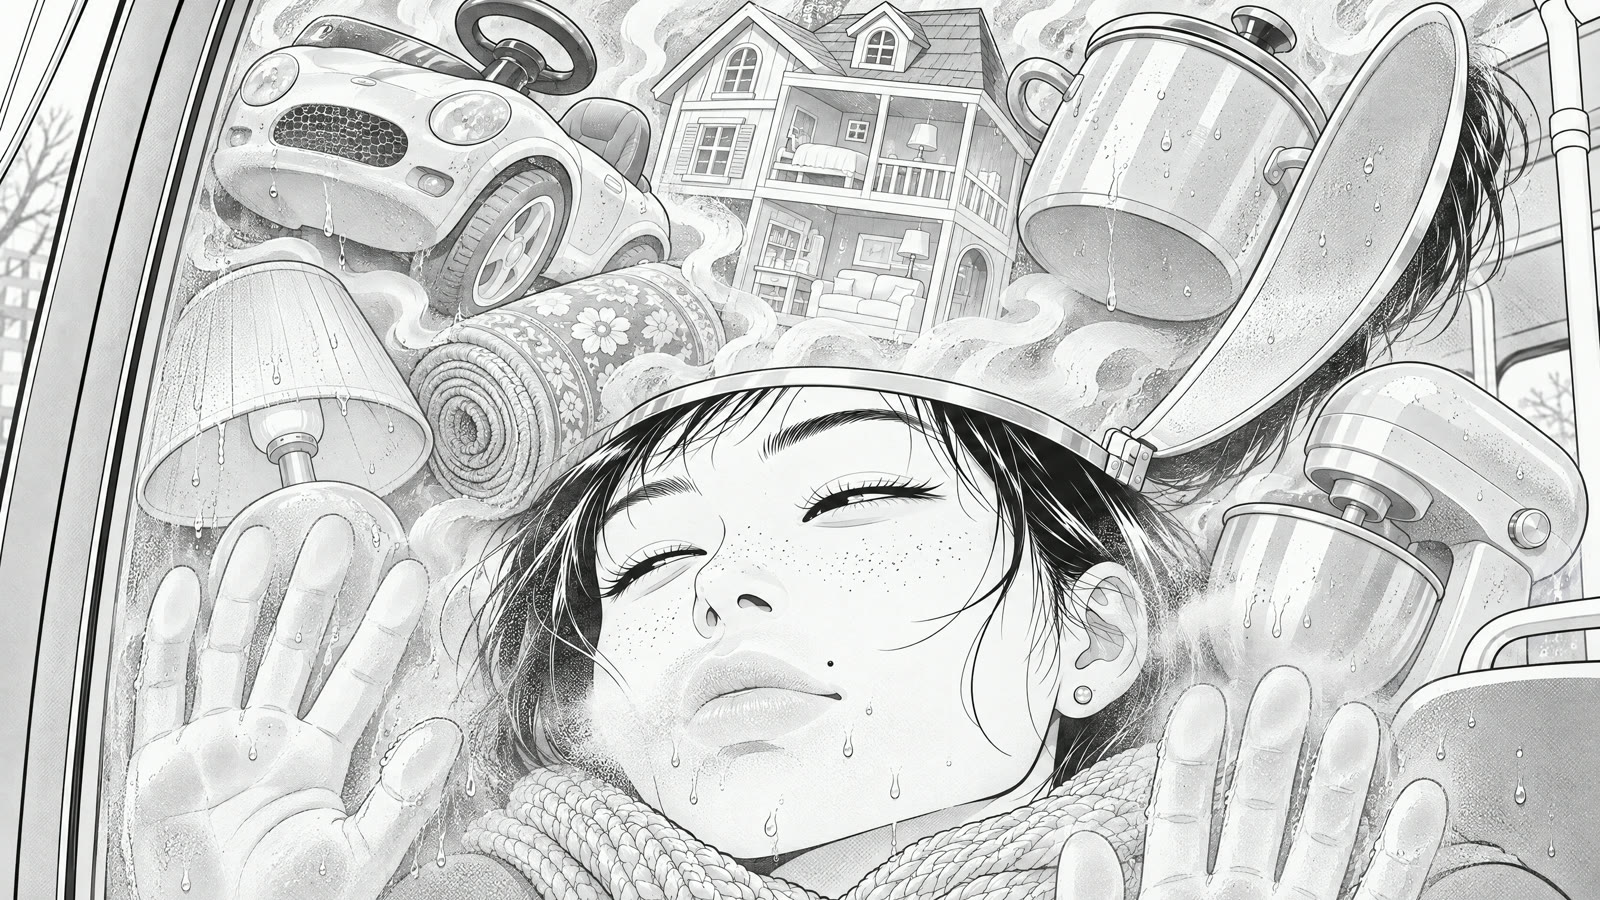
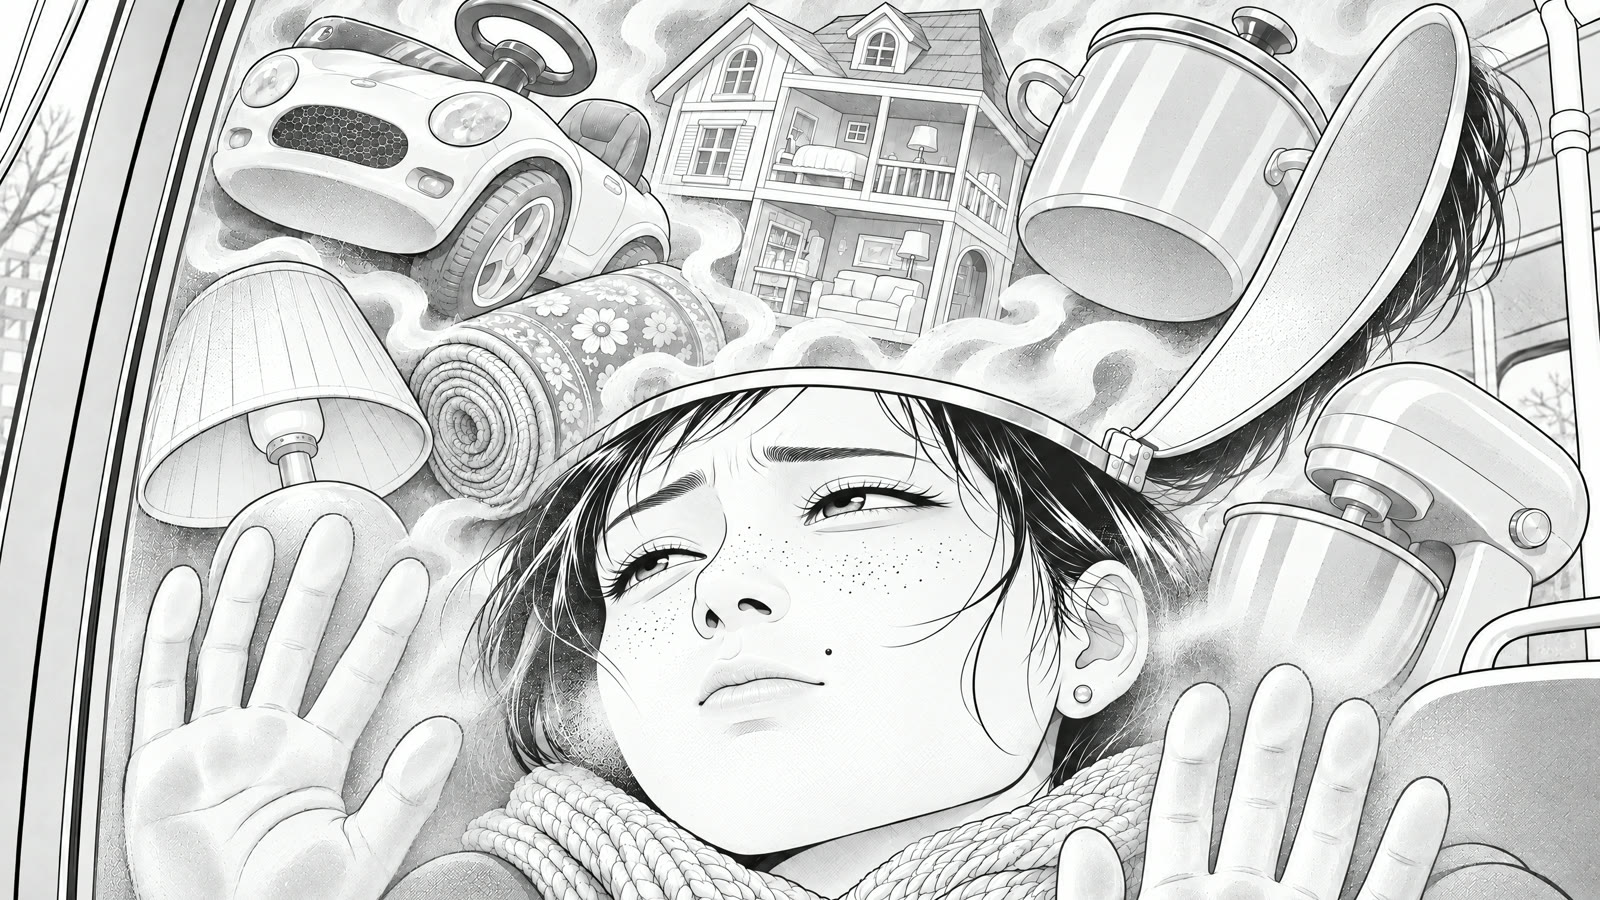
deck/avito: кадры 02, 05, 09 и описания с доски

diff --git a/deck/avito/index.html b/deck/avito/index.html
@@ -118,9 +118,9 @@ footer{margin-top:auto;border-top:1px solid var(--line);padding-top:18px;display
   </dl>
   <div class="copy"><p>Мысли героя о подарках вылетают из головы настоящими вещами. Поворот диммера Хватамбы открывает двери на улицу, где каждая мысль стоит в авитжете со скидкой.</p></div>
 </section>
-<section class="grid" id="refs"><div class="label">Стиль</div><div class="frames free"><figure><a href="./media/ref1.jpg?v=1" target="_blank" rel="noopener"><img src="./media/ref1.jpg?v=1" alt="Голова открывается крышкой, подарки вылетают с паром" loading="lazy"></a><figcaption><b></b><span>Голова открывается крышкой, подарки вылетают с паром</span></figcaption></figure></div></section>
-<section class="grid" id="sb"><div class="label">Раскадровка</div><div class="frames"><figure><a href="./media/sb01.jpg?v=1" target="_blank" rel="noopener"><img src="./media/sb01.jpg?v=1" alt="Герой в автобусе мечтательно смотрит вверх. Голова открывается крышкой, с паром вылетают подарки." loading="lazy"></a><figcaption><b>01</b><span>Герой в автобусе мечтательно смотрит вверх. Голова открывается крышкой, с паром вылетают подарки.</span></figcaption></figure><figure><a href="./media/sb02.jpg?v=1" target="_blank" rel="noopener"><img src="./media/sb02.jpg?v=1" alt="Девушка прижалась к запотевшему стеклу. Над её открытой головой свои желания." loading="lazy"></a><figcaption><b>02</b><span>Девушка прижалась к запотевшему стеклу. Над её открытой головой свои желания.</span></figcaption></figure><figure><a href="./media/sb03.jpg?v=1" target="_blank" rel="noopener"><img src="./media/sb03.jpg?v=1" alt="Салон в зеркале заднего вида: у всех пассажиров открыты головы, над каждым свои товары." loading="lazy"></a><figcaption><b>03</b><span>Салон в зеркале заднего вида: у всех пассажиров открыты головы, над каждым свои товары.</span></figcaption></figure><figure><a href="./media/sb04.jpg?v=1" target="_blank" rel="noopener"><img src="./media/sb04.jpg?v=1" alt="Макро глаза героя: в зрачке светится диммер Хватамбы на двери." loading="lazy"></a><figcaption><b>04</b><span>Макро глаза героя: в зрачке светится диммер Хватамбы на двери.</span></figcaption></figure><figure><a href="./media/sb05.jpg?v=1" target="_blank" rel="noopener"><img src="./media/sb05.jpg?v=1" alt="Герой крутит диммер, желания закручиваются вихрем. Автобус тормозит." loading="lazy"></a><figcaption><b>05</b><span>Герой крутит диммер, желания закручиваются вихрем. Автобус тормозит.</span></figcaption></figure><figure><a href="./media/sb06.jpg?v=1" target="_blank" rel="noopener"><img src="./media/sb06.jpg?v=1" alt="Двери открываются: на солнечной улице ряды авитжетов и селлеры." loading="lazy"></a><figcaption><b>06</b><span>Двери открываются: на солнечной улице ряды авитжетов и селлеры.</span></figcaption></figure><figure><a href="./media/sb07.jpg?v=1" target="_blank" rel="noopener"><img src="./media/sb07.jpg?v=1" alt="Нижняя точка на авитжет с товарами из желаний героя." loading="lazy"></a><figcaption><b>07</b><span>Нижняя точка на авитжет с товарами из желаний героя.</span></figcaption></figure><figure><a href="./media/sb08.jpg?v=1" target="_blank" rel="noopener"><img src="./media/sb08.jpg?v=1" alt="Селлер крутит диммер на авитжете, вылетают значки скидок." loading="lazy"></a><figcaption><b>08</b><span>Селлер крутит диммер на авитжете, вылетают значки скидок.</span></figcaption></figure><figure><a href="./media/sb09.jpg?v=1" target="_blank" rel="noopener"><img src="./media/sb09.jpg?v=1" alt="Сверху: город вращается вокруг диммера в руке селлера." loading="lazy"></a><figcaption><b>09</b><span>Сверху: город вращается вокруг диммера в руке селлера.</span></figcaption></figure><figure><a href="./media/sb10.jpg?v=1" target="_blank" rel="noopener"><img src="./media/sb10.jpg?v=1" alt="Изнутри авитжета: герой забирает ту самую кофемашину." loading="lazy"></a><figcaption><b>10</b><span>Изнутри авитжета: герой забирает ту самую кофемашину.</span></figcaption></figure><figure><a href="./media/sb11.jpg?v=1" target="_blank" rel="noopener"><img src="./media/sb11.jpg?v=1" alt="Пэкшот: авитжет с кофемашиной и диммером Хватамбы, плашка Авито." loading="lazy"></a><figcaption><b>11</b><span>Пэкшот: авитжет с кофемашиной и диммером Хватамбы, плашка Авито.</span></figcaption></figure></div></section>
-<section class="grid" id="alts"><div class="label">Альтернативы по стилю</div><div class="frames"><figure><a href="./media/alt1.jpg?v=1" target="_blank" rel="noopener"><img src="./media/alt1.jpg?v=1" alt="Предметы облепили голову" loading="lazy"></a><figcaption><b></b><span>Предметы облепили голову</span></figcaption></figure><figure><a href="./media/alt2.jpg?v=1" target="_blank" rel="noopener"><img src="./media/alt2.jpg?v=1" alt="Тот же приём, движение камеры" loading="lazy"></a><figcaption><b></b><span>Тот же приём, движение камеры</span></figcaption></figure></div></section>
+<section class="grid" id="refs"><div class="label">Стиль</div><div class="frames free"><figure><a href="./media/ref1.jpg?v=2" target="_blank" rel="noopener"><img src="./media/ref1.jpg?v=2" alt="Голова открывается крышкой, подарки вылетают с паром" loading="lazy"></a><figcaption><b></b><span>Голова открывается крышкой, подарки вылетают с паром</span></figcaption></figure></div></section>
+<section class="grid" id="sb"><div class="label">Раскадровка</div><div class="frames"><figure><a href="./media/sb01.jpg?v=2" target="_blank" rel="noopener"><img src="./media/sb01.jpg?v=2" alt="Герой в автобусе мечтательно смотрит вверх. Голова открывается крышкой, с паром вылетают подарки." loading="lazy"></a><figcaption><b>01</b><span>Герой в автобусе мечтательно смотрит вверх. Голова открывается крышкой, с паром вылетают подарки.</span></figcaption></figure><figure><a href="./media/sb02.jpg?v=2" target="_blank" rel="noopener"><img src="./media/sb02.jpg?v=2" alt="Девушка прижалась к запотевшему стеклу. Её желания над открытой головой тоже упираются в стекло." loading="lazy"></a><figcaption><b>02</b><span>Девушка прижалась к запотевшему стеклу. Её желания над открытой головой тоже упираются в стекло.</span></figcaption></figure><figure><a href="./media/sb03.jpg?v=2" target="_blank" rel="noopener"><img src="./media/sb03.jpg?v=2" alt="Салон в зеркале заднего вида: у всех пассажиров открыты головы, над каждым куча своих товаров." loading="lazy"></a><figcaption><b>03</b><span>Салон в зеркале заднего вида: у всех пассажиров открыты головы, над каждым куча своих товаров.</span></figcaption></figure><figure><a href="./media/sb04.jpg?v=2" target="_blank" rel="noopener"><img src="./media/sb04.jpg?v=2" alt="Макро глаза героя: в зрачке диммер Хватамбы на двери." loading="lazy"></a><figcaption><b>04</b><span>Макро глаза героя: в зрачке диммер Хватамбы на двери.</span></figcaption></figure><figure><a href="./media/sb05.jpg?v=2" target="_blank" rel="noopener"><img src="./media/sb05.jpg?v=2" alt="Рука героя крутит диммер, товары со всего автобуса летят по проходу в диммер. Автобус тормозит." loading="lazy"></a><figcaption><b>05</b><span>Рука героя крутит диммер, товары со всего автобуса летят по проходу в диммер. Автобус тормозит.</span></figcaption></figure><figure><a href="./media/sb06.jpg?v=2" target="_blank" rel="noopener"><img src="./media/sb06.jpg?v=2" alt="Двери открываются: солнечная улица с авитжетами и селлерами, вдали авитжеты размером с дома." loading="lazy"></a><figcaption><b>06</b><span>Двери открываются: солнечная улица с авитжетами и селлерами, вдали авитжеты размером с дома.</span></figcaption></figure><figure><a href="./media/sb07.jpg?v=2" target="_blank" rel="noopener"><img src="./media/sb07.jpg?v=2" alt="Авитжет крупно: в ячейках товары из желаний героя, сбоку диммер." loading="lazy"></a><figcaption><b>07</b><span>Авитжет крупно: в ячейках товары из желаний героя, сбоку диммер.</span></figcaption></figure><figure><a href="./media/sb08.jpg?v=2" target="_blank" rel="noopener"><img src="./media/sb08.jpg?v=2" alt="Селлер начинает крутить диммер, улица закручивается, вылетают значки скидок." loading="lazy"></a><figcaption><b>08</b><span>Селлер начинает крутить диммер, улица закручивается, вылетают значки скидок.</span></figcaption></figure><figure><a href="./media/sb09.jpg?v=2" target="_blank" rel="noopener"><img src="./media/sb09.jpg?v=2" alt="Сверху: селлер проворачивает диммер дальше, и весь город вращается." loading="lazy"></a><figcaption><b>09</b><span>Сверху: селлер проворачивает диммер дальше, и весь город вращается.</span></figcaption></figure><figure><a href="./media/sb10.jpg?v=2" target="_blank" rel="noopener"><img src="./media/sb10.jpg?v=2" alt="Изнутри авитжета: герой забирает ту самую кофемашину. Над головой больше ничего не висит." loading="lazy"></a><figcaption><b>10</b><span>Изнутри авитжета: герой забирает ту самую кофемашину. Над головой больше ничего не висит.</span></figcaption></figure><figure><a href="./media/sb11.jpg?v=2" target="_blank" rel="noopener"><img src="./media/sb11.jpg?v=2" alt="Пэкшот: авитжет с кофемашиной и диммером Хватамбы, плашка Авито." loading="lazy"></a><figcaption><b>11</b><span>Пэкшот: авитжет с кофемашиной и диммером Хватамбы, плашка Авито.</span></figcaption></figure></div></section>
+<section class="grid" id="alts"><div class="label">Альтернативы по стилю</div><div class="frames"><figure><a href="./media/alt1.jpg?v=2" target="_blank" rel="noopener"><img src="./media/alt1.jpg?v=2" alt="Предметы облепили голову" loading="lazy"></a><figcaption><b></b><span>Предметы облепили голову</span></figcaption></figure><figure><a href="./media/alt2.jpg?v=2" target="_blank" rel="noopener"><img src="./media/alt2.jpg?v=2" alt="Тот же приём, движение камеры" loading="lazy"></a><figcaption><b></b><span>Тот же приём, движение камеры</span></figcaption></figure></div></section>
 <footer><span>Anton Shavkero · Director's notes</span><span>Авито · 2026</span></footer>
 </main>
 <div id="lb"><span class="nav prev">‹</span><img alt=""><span class="nav next">›</span><span class="x">×</span></div>
